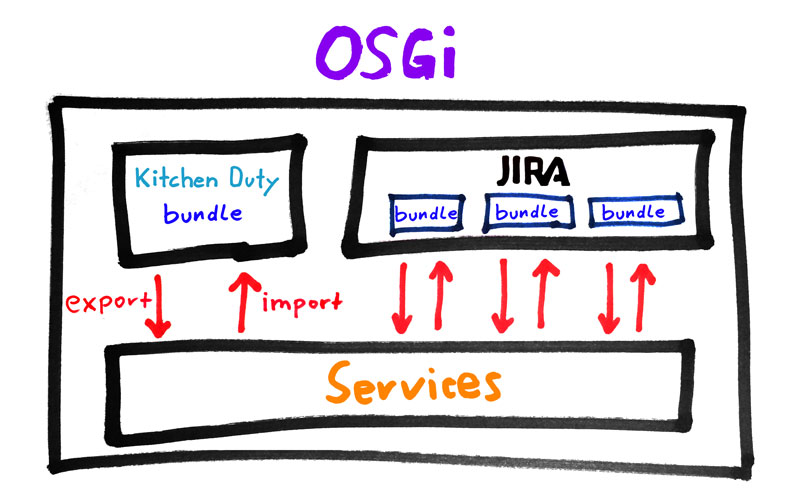
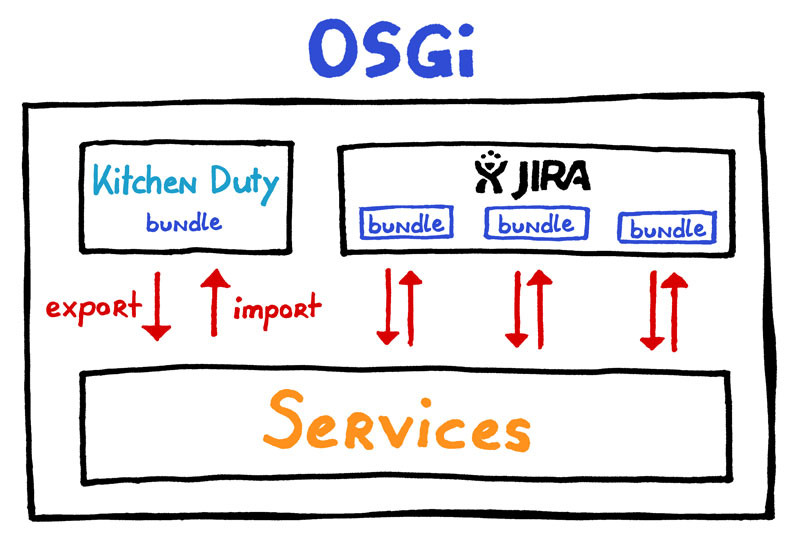
nicer mockups

diff --git a/index.html b/index.html
@@ -89,7 +89,7 @@
                     <div class="row">
                         <div class="col-md-6">
                             <p><span class="cs-special">Kitchen Duty Planning Page</span></p>
-                            <a href="./images/drawings/00-mock-kitchen-duty-planning-page.jpg" data-lightbox="user-stories" data-title="Kitchen Duty Planning Page Mockup">
+                            <a href="./images/drawings/00-mock-kitchen-duty-planning-page_big.jpg" data-lightbox="user-stories" data-title="Kitchen Duty Planning Page Mockup">
                                 <img src="./images/drawings/00-mock-kitchen-duty-planning-page.jpg" class="img-responsive cs-image" alt="Kitchen Duty Planning Page Mockup">
                             </a>
 
@@ -105,7 +105,7 @@
                         </div>
                         <div class="col-md-6">
                             <p><span class="cs-special">Kitchen Duty Overview Page</span></p>
-                            <a href="./images/drawings/00-mock-kitchen-duty-overview-page.jpg" data-lightbox="user-stories" data-title="Kitchen Duty Overview Page Mockup">
+                            <a href="./images/drawings/00-mock-kitchen-duty-overview-page_big.jpg" data-lightbox="user-stories" data-title="Kitchen Duty Overview Page Mockup">
                                 <img src="./images/drawings/00-mock-kitchen-duty-overview-page.jpg" class="img-responsive cs-image" class="Kitchen Duty Overview Page Mockup">
                             </a>
                             <p><strong>User Story</strong></p>
@@ -462,10 +462,10 @@ target/</code></pre>
                                 a custom <code>MANIFEST.mf</code> from the <code>Import/Export-Package</code> instructions of <code>pom.xml</code>.</p>
 
                         </div>
-                        <div class="col-md-4">
+                        <div class="col-md-6">
                             <p>
-                                <a href="./images/drawings/00-mock-osgi-and-jira.jpg" data-lightbox="00-osgi" data-title="OSGi and JIRA">
-                                    <img src="./images/drawings/00-mock-osgi-and-jira.jpg" class="img-thumbnail img-responsive cs-tutorial-image" alt="OSGi and JIRA">
+                                <a href="./images/drawings/00-mock-osgi-and-jira_big.jpg" data-lightbox="00-osgi" data-title="OSGi and JIRA">
+                                    <img src="./images/drawings/00-mock-osgi-and-jira.jpg" class="img-thumbnail img-responsive" alt="OSGi and JIRA">
                                 </a>
                             </p>
                         </div>
@@ -549,7 +549,7 @@ Spring-Context: *</code></pre>
                 </div>
             </div>
             <div class="row">
-                <div class="col-md-9">
+                <div class="col-md-8">
 
                     <p>Our base project is compiling and now we want to takle our first User Story and <strong>implement the Kitchen Duty Planning page</strong>.</p>
 
@@ -572,8 +572,8 @@ Spring-Context: *</code></pre>
 
 
                 </div>
-                <div class="col-md-3 cs-meme-container hidden-xs hidden-sm">
-                    <img src="./images/drawings/serious-thinking.png" class="img-responsive">
+                <div class="col-md-4 hidden-xs hidden-sm">
+                    <img src="./images/drawings/serious-thinking.jpg" class="img-responsive">
                 </div>
             </div>
             <div class="row">

diff --git a/_page/pages/index.html b/_page/pages/index.html
@@ -59,7 +59,7 @@
                     <div class="row">
                         <div class="col-md-6">
                             <p><span class="cs-special">Kitchen Duty Planning Page</span></p>
-                            <a href="./images/drawings/00-mock-kitchen-duty-planning-page.jpg" data-lightbox="user-stories" data-title="Kitchen Duty Planning Page Mockup">
+                            <a href="./images/drawings/00-mock-kitchen-duty-planning-page_big.jpg" data-lightbox="user-stories" data-title="Kitchen Duty Planning Page Mockup">
                                 <img src="./images/drawings/00-mock-kitchen-duty-planning-page.jpg" class="img-responsive cs-image" alt="Kitchen Duty Planning Page Mockup">
                             </a>
 
@@ -75,7 +75,7 @@
                         </div>
                         <div class="col-md-6">
                             <p><span class="cs-special">Kitchen Duty Overview Page</span></p>
-                            <a href="./images/drawings/00-mock-kitchen-duty-overview-page.jpg" data-lightbox="user-stories" data-title="Kitchen Duty Overview Page Mockup">
+                            <a href="./images/drawings/00-mock-kitchen-duty-overview-page_big.jpg" data-lightbox="user-stories" data-title="Kitchen Duty Overview Page Mockup">
                                 <img src="./images/drawings/00-mock-kitchen-duty-overview-page.jpg" class="img-responsive cs-image" class="Kitchen Duty Overview Page Mockup">
                             </a>
                             <p><strong>User Story</strong></p>
@@ -411,10 +411,10 @@
                                 a custom <code>MANIFEST.mf</code> from the <code>Import/Export-Package</code> instructions of <code>pom.xml</code>.</p>
 
                         </div>
-                        <div class="col-md-4">
+                        <div class="col-md-6">
                             <p>
-                                <a href="./images/drawings/00-mock-osgi-and-jira.jpg" data-lightbox="00-osgi" data-title="OSGi and JIRA">
-                                    <img src="./images/drawings/00-mock-osgi-and-jira.jpg" class="img-thumbnail img-responsive cs-tutorial-image" alt="OSGi and JIRA">
+                                <a href="./images/drawings/00-mock-osgi-and-jira_big.jpg" data-lightbox="00-osgi" data-title="OSGi and JIRA">
+                                    <img src="./images/drawings/00-mock-osgi-and-jira.jpg" class="img-thumbnail img-responsive" alt="OSGi and JIRA">
                                 </a>
                             </p>
                         </div>
@@ -484,7 +484,7 @@
                 </div>
             </div>
             <div class="row">
-                <div class="col-md-9">
+                <div class="col-md-8">
 
                     <p>Our base project is compiling and now we want to takle our first User Story and <strong>implement the Kitchen Duty Planning page</strong>.</p>
 
@@ -507,8 +507,8 @@
 
 
                 </div>
-                <div class="col-md-3 cs-meme-container hidden-xs hidden-sm">
-                    <img src="./images/drawings/serious-thinking.png" class="img-responsive">
+                <div class="col-md-4 hidden-xs hidden-sm">
+                    <img src="./images/drawings/serious-thinking.jpg" class="img-responsive">
                 </div>
             </div>
             <div class="row">
